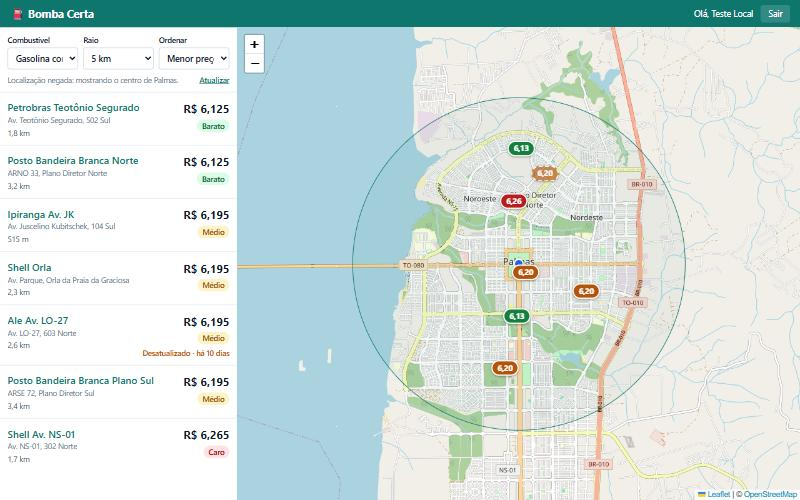
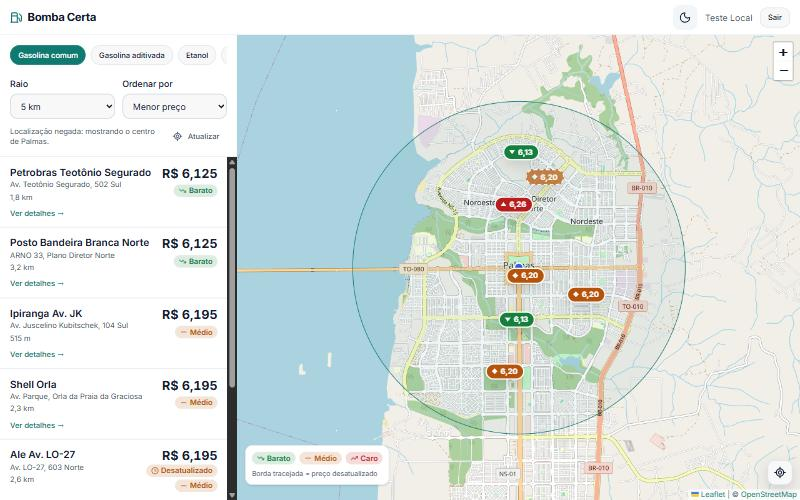
docs: update readme and screenshots for the new front-end

diff --git a/README.md b/README.md
@@ -6,9 +6,13 @@ garante dados mesmo sem usuários, e alertas de preço avisam quando algum posto
 
 > Projeto de portfólio full stack, do banco ao deploy. Nome provisório.
 
-|                                             Mapa (web)                                             |                                  Posto, histórico e reporte                                   |                       Mobile (viewport)                       |
-| :------------------------------------------------------------------------------------------------: | :-------------------------------------------------------------------------------------------: | :-----------------------------------------------------------: |
-| ![Mapa com marcadores coloridos por faixa de preço e lista ordenada](docs/screenshots/web-map.jpg) | ![Página do posto com preços atuais e gráfico do histórico](docs/screenshots/web-station.jpg) | ![Versão responsiva do mapa](docs/screenshots/web-mobile.jpg) |
+|                                      Mapa (tema claro)                                       |                       Mapa (tema escuro)                        |
+| :------------------------------------------------------------------------------------------: | :-------------------------------------------------------------: |
+| ![Mapa com pinos por faixa de preço, legenda e lista ordenada](docs/screenshots/web-map.jpg) | ![Mesmo mapa no tema escuro](docs/screenshots/web-map-dark.jpg) |
+
+|                                  Posto, histórico e reporte                                   |                                 Celular: bottom sheet                                  |
+| :-------------------------------------------------------------------------------------------: | :------------------------------------------------------------------------------------: |
+| ![Página do posto com preços atuais e gráfico do histórico](docs/screenshots/web-station.jpg) | ![Mapa no celular com o posto selecionado na bandeja](docs/screenshots/web-mobile.jpg) |
 
 > Os preços e a maioria dos postos das imagens são **fictícios** (seed de desenvolvimento).
 > O app Expo ainda não foi executado em aparelho neste repositório: o print mobile acima é o web em viewport de celular.
@@ -19,8 +23,9 @@ garante dados mesmo sem usuários, e alertas de preço avisam quando algum posto
 - **Postos** com localização (`geography(Point, 4326)`), bandeira e endereço
 - **Reporte de preço** por combustível (gasolina comum, aditivada, etanol, diesel S10)
 - **Busca por raio** com `ST_DWithin`, ordenada por preço ou distância, paginada
-- **Mapa** com marcadores coloridos por faixa de preço (barato, médio, caro) e destaque para preço desatualizado
+- **Mapa** com pinos por faixa de preço (barato, médio, caro) que usam **forma além da cor** (▼ ◆ ▲), _clustering_ que mostra a quantidade e o preço mais barato do grupo, e destaque para preço desatualizado
 - **Página do posto** com histórico de preços (Recharts)
+- **Tema claro e escuro**, _bottom sheet_ no celular, estados de carregamento (skeleton), erro (com "tentar novamente") e vazio, e toasts
 - **Importação semanal da ANP** por job agendado no BullMQ, filtrada por Palmas
 - **Alertas de preço** processados em fila, com notificação in-app, e-mail e push (Expo)
 - **Mobile (Expo)** com mapa, reporte rápido, alertas e push notifications
@@ -81,7 +86,7 @@ Monorepo **pnpm workspaces**:
 ```
 apps/
   api/        NestJS 11 · Prisma · PostgreSQL/PostGIS · BullMQ · Swagger
-  web/        React 19 · Vite · Tailwind 4 · TanStack Query · react-leaflet · Recharts
+  web/        React 19 · Vite · Tailwind 4 · TanStack Query · Leaflet + markercluster · Recharts
   mobile/     Expo SDK 58 · expo-router · react-native-maps · expo-notifications
 packages/
   shared/     Schemas Zod, tipos da API, formatadores e faixas de preço (usado por todos)
@@ -120,7 +125,7 @@ pnpm typecheck
 pnpm --filter @bomba-certa/shared test      # 9
 pnpm --filter @bomba-certa/api test         # 34 unitários
 pnpm --filter @bomba-certa/api test:e2e     # 24, contra PostgreSQL/PostGIS e Redis reais
-pnpm --filter @bomba-certa/web test         # 8
+pnpm --filter @bomba-certa/web test         # 25
 pnpm --filter @bomba-certa/mobile test      # 5
 ```
 
@@ -166,6 +171,19 @@ O GitHub Actions ([ci.yml](.github/workflows/ci.yml)) roda lint, formatação, t
   são idempotentes, então jobs a mais são inofensivos. (O BullMQ também proíbe `:` em `jobId`; um e2e pegou isso.)
 - O agendamento semanal (`upsertJobScheduler`) é idempotente e **se recria a cada hora**, porque um Redis efêmero pode esquecê-lo.
 - O in-app é a fonte da verdade (falha → retry); e-mail e push são _best effort_ atrás da interface `NotificationChannel`.
+
+**Front-end (web)**
+
+- **Design tokens** em CSS (`--background`, `--primary`, `--band-cheap`...) mapeados com `@theme inline` do Tailwind 4: os componentes só
+  usam nomes semânticos, então o tema escuro é só outro conjunto de valores (classe `.dark`, com script inline que evita o _flash_).
+- **Atomic Design** (`atoms/molecules/organisms/templates`), variantes com `class-variance-authority` e `tailwind-merge`.
+- **Acessibilidade**: a faixa de preço nunca depende só da cor (ícone + texto na lista, forma no pino); `aria-pressed` nos filtros,
+  `aria-expanded` e `inert` no _bottom sheet_, foco visível, _skip link_ e respeito a `prefers-reduced-motion` (inclusive no gráfico).
+- **Mapa com a API nativa do Leaflet**, não `react-leaflet`: o `leaflet.markercluster` não tem wrapper React, e criar/destruir o mapa em
+  efeitos mantém seguro o duplo _mount_ do StrictMode. Os ícones são HTML gerado por funções puras e testadas (`lib/mapIcons.ts`).
+  O tema escuro do mapa inverte os tiles por CSS, sem um segundo provedor.
+- **`AsyncStateView`**: um só lugar para os quatro estados de dado remoto (carregando, erro com retry, vazio, sucesso).
+- _Bottom sheet_ com altura **medida** (`ResizeObserver`), para a bandeja recolhida caber exatamente no conteúdo.
 
 **Qualidade**
 
